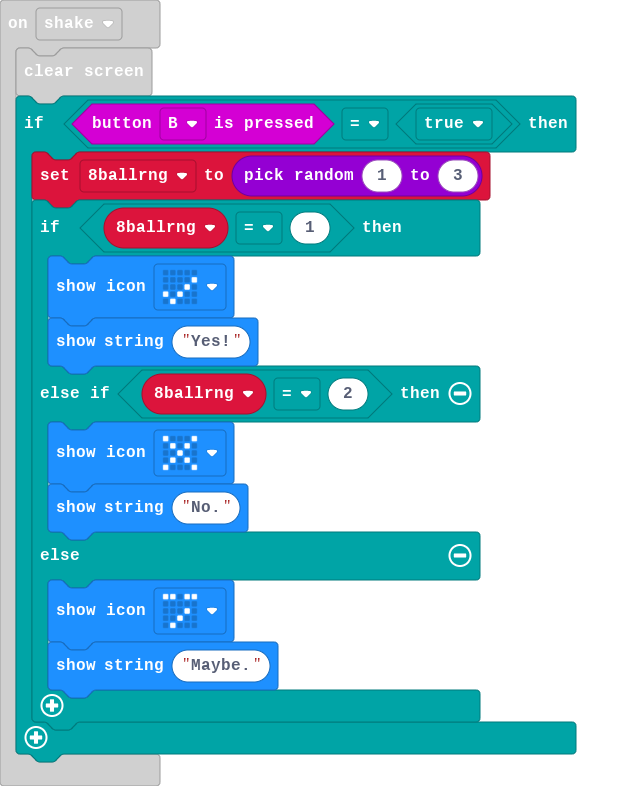
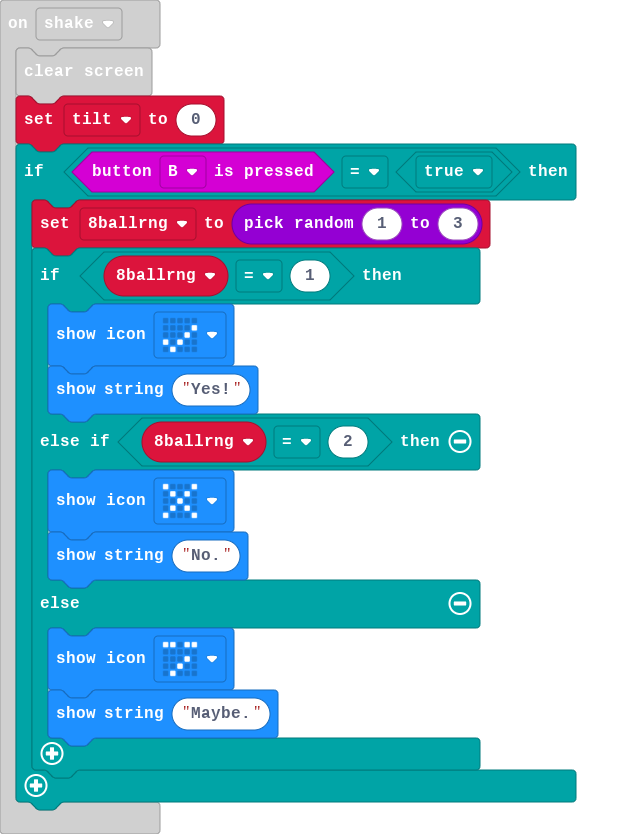
Disabling the tilt mini game when shake and b are done.

Changed region(s): [[0.0, 0.0305, 0.9379, 0.9771]]

diff --git a/main.ts b/main.ts
@@ -1175,6 +1175,7 @@ input.onPinPressed(TouchPin.P1, function () {
 })
 input.onGesture(Gesture.Shake, function () {
     basic.clearScreen()
+    tilt = 0
     if (input.buttonIsPressed(Button.B) == true) {
         _8ballrng = randint(1, 3)
         if (_8ballrng == 1) {
